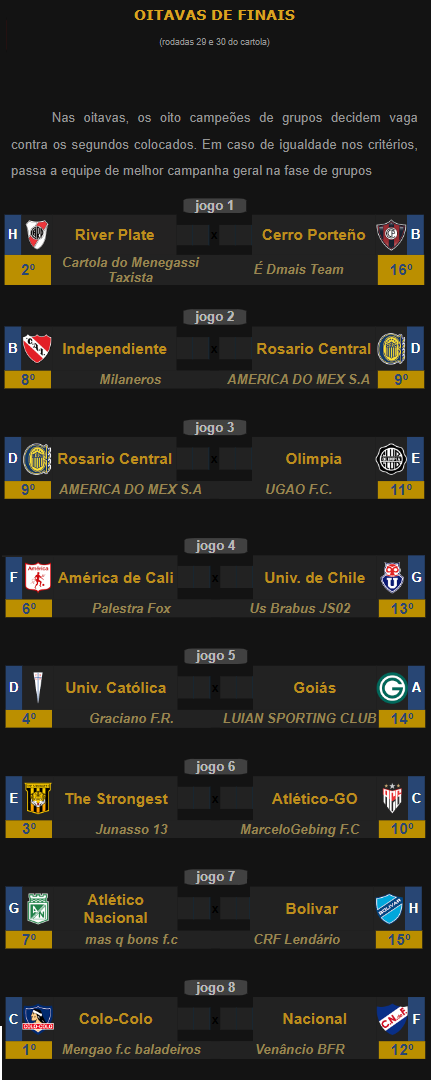
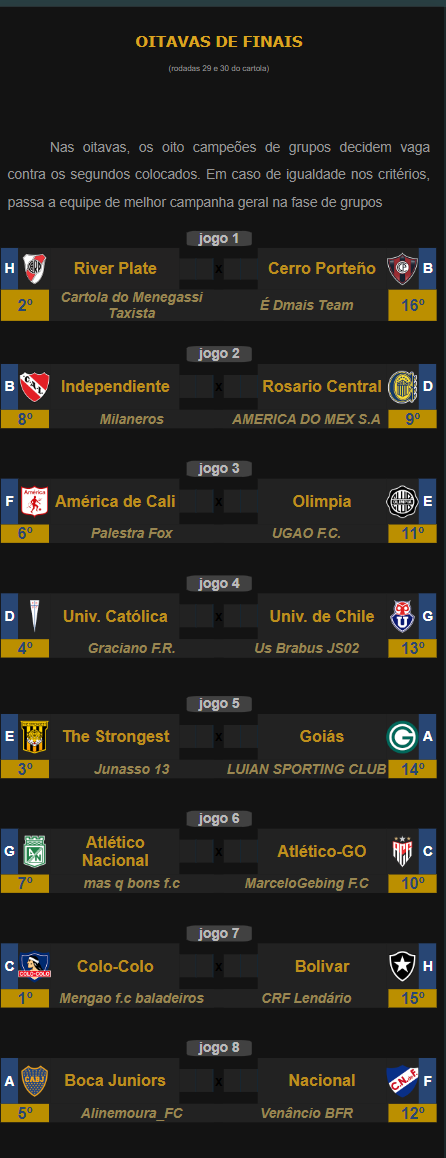
foi

diff --git a/js/libertadores.js b/js/libertadores.js
@@ -1683,12 +1683,12 @@ let MelhoresSegundos=[logorosariocentral,rosariocentral,'10','3','1','2','14','1
 
 document.getElementById("5fDivclub1").innerHTML="H";document.getElementById("5fLogoclub1").innerHTML=logoriverplate;document.getElementById("5fNomeclub1").innerHTML="River Plate";document.getElementById("5fgolj2club1").innerHTML="";document.getElementById("5fgolj1club1").innerHTML="";document.getElementById("5fNivelclub1").innerHTML="2º";document.getElementById("5fTecclub1").innerHTML=tec536.nome;document.getElementById("5fDivclub2").innerHTML="B";document.getElementById("5fLogoclub2").innerHTML=logocerroporteno;document.getElementById("5fNomeclub2").innerHTML="Cerro Porteño";document.getElementById("5fgolj1club2").innerHTML="";document.getElementById("5fgolj2club2").innerHTML="";document.getElementById("5fNivelclub2").innerHTML="16º";document.getElementById("5fTecclub2").innerHTML=tec464.nome;
 document.getElementById("5fDivclub3").innerHTML="B";document.getElementById("5fLogoclub3").innerHTML=logoindependiente;document.getElementById("5fNomeclub3").innerHTML="Independiente";document.getElementById("5fgolj2club3").innerHTML="";document.getElementById("5fgolj1club3").innerHTML="";document.getElementById("5fNivelclub3").innerHTML="8º";document.getElementById("5fTecclub3").innerHTML=tec481.nome;document.getElementById("5fDivclub4").innerHTML="D";document.getElementById("5fLogoclub4").innerHTML=logorosariocentral;document.getElementById("5fNomeclub4").innerHTML="Rosario Central";document.getElementById("5fgolj1club4").innerHTML="";document.getElementById("5fgolj2club4").innerHTML="";document.getElementById("5fNivelclub4").innerHTML="9º";document.getElementById("5fTecclub4").innerHTML=tec537.nome;
-document.getElementById("5fDivclub5").innerHTML="D";document.getElementById("5fLogoclub5").innerHTML=logorosariocentral;document.getElementById("5fNomeclub5").innerHTML="Rosario Central";document.getElementById("5fgolj2club5").innerHTML="";document.getElementById("5fgolj1club5").innerHTML="";document.getElementById("5fNivelclub5").innerHTML="9º";document.getElementById("5fTecclub5").innerHTML=tec537.nome;document.getElementById("5fDivclub6").innerHTML="E";document.getElementById("5fLogoclub6").innerHTML=logoolimpia;document.getElementById("5fNomeclub6").innerHTML="Olimpia";document.getElementById("5fgolj1club6").innerHTML="";document.getElementById("5fgolj2club6").innerHTML="";document.getElementById("5fNivelclub6").innerHTML="11º";document.getElementById("5fTecclub6").innerHTML=tec539.nome;
-document.getElementById("5fDivclub7").innerHTML="F";document.getElementById("5fLogoclub7").innerHTML=logoamericadecali;document.getElementById("5fNomeclub7").innerHTML="América de Cali";document.getElementById("5fgolj2club7").innerHTML="";document.getElementById("5fgolj1club7").innerHTML="";document.getElementById("5fNivelclub7").innerHTML="6º";document.getElementById("5fTecclub7").innerHTML=tec542.nome;document.getElementById("5fDivclub8").innerHTML="G";document.getElementById("5fLogoclub8").innerHTML=logounivdechile;document.getElementById("5fNomeclub8").innerHTML="Univ. de Chile";document.getElementById("5fgolj1club8").innerHTML="";document.getElementById("5fgolj2club8").innerHTML="";document.getElementById("5fNivelclub8").innerHTML="13º";document.getElementById("5fTecclub8").innerHTML=tec523.nome;
-document.getElementById("5fDivclub9").innerHTML="D";document.getElementById("5fLogoclub9").innerHTML=logounivcatolicachi;document.getElementById("5fNomeclub9").innerHTML="Univ. Católica";document.getElementById("5fgolj2club9").innerHTML="";document.getElementById("5fgolj1club9").innerHTML="";document.getElementById("5fNivelclub9").innerHTML="4º";document.getElementById("5fTecclub9").innerHTML=tec532.nome;document.getElementById("5fDivclub10").innerHTML="A";document.getElementById("5fLogoclub10").innerHTML=logogoias;document.getElementById("5fNomeclub10").innerHTML="Goiás";document.getElementById("5fgolj1club10").innerHTML="";document.getElementById("5fgolj2club10").innerHTML="";document.getElementById("5fNivelclub10").innerHTML="14º";document.getElementById("5fTecclub10").innerHTML=tec102.nome;
-document.getElementById("5fDivclub11").innerHTML="E";document.getElementById("5fLogoclub11").innerHTML=logothestrongest;document.getElementById("5fNomeclub11").innerHTML="The Strongest";document.getElementById("5fgolj2club11").innerHTML="";document.getElementById("5fgolj1club11").innerHTML="";document.getElementById("5fNivelclub11").innerHTML="3º";document.getElementById("5fTecclub11").innerHTML=tec479.nome;document.getElementById("5fDivclub12").innerHTML="C";document.getElementById("5fLogoclub12").innerHTML=logoatleticogo;document.getElementById("5fNomeclub12").innerHTML="Atlético-GO";document.getElementById("5fgolj1club12").innerHTML="";document.getElementById("5fgolj2club12").innerHTML="";document.getElementById("5fNivelclub12").innerHTML="10º";document.getElementById("5fTecclub12").innerHTML=tec106.nome;
-document.getElementById("5fDivclub13").innerHTML="G";document.getElementById("5fLogoclub13").innerHTML=logoatleticonacional;document.getElementById("5fNomeclub13").innerHTML="Atlético Nacional";document.getElementById("5fgolj2club13").innerHTML="";document.getElementById("5fgolj1club13").innerHTML="";document.getElementById("5fNivelclub13").innerHTML="7º";document.getElementById("5fTecclub13").innerHTML=tec541.nome;document.getElementById("5fDivclub14").innerHTML="H";document.getElementById("5fLogoclub14").innerHTML=logobolivar;document.getElementById("5fNomeclub14").innerHTML="Bolivar";document.getElementById("5fgolj1club14").innerHTML="";document.getElementById("5fgolj2club14").innerHTML="";document.getElementById("5fNivelclub14").innerHTML="15º";document.getElementById("5fTecclub14").innerHTML=tec457.nome;
-document.getElementById("5fDivclub15").innerHTML="C";document.getElementById("5fLogoclub15").innerHTML=logocolocolo;document.getElementById("5fNomeclub15").innerHTML="Colo-Colo";document.getElementById("5fgolj2club15").innerHTML="";document.getElementById("5fgolj1club15").innerHTML="";document.getElementById("5fNivelclub15").innerHTML="1º";document.getElementById("5fTecclub15").innerHTML=tec538.nome;document.getElementById("5fDivclub16").innerHTML="F";document.getElementById("5fLogoclub16").innerHTML=logonacionaluru;document.getElementById("5fNomeclub16").innerHTML="Nacional";document.getElementById("5fgolj1club16").innerHTML="";document.getElementById("5fgolj2club16").innerHTML="";document.getElementById("5fNivelclub16").innerHTML="12º";document.getElementById("5fTecclub16").innerHTML=tec540.nome;
+document.getElementById("5fDivclub5").innerHTML="F";document.getElementById("5fLogoclub5").innerHTML=logoamericadecali;document.getElementById("5fNomeclub5").innerHTML="América de Cali";document.getElementById("5fgolj2club5").innerHTML="";document.getElementById("5fgolj1club5").innerHTML="";document.getElementById("5fNivelclub5").innerHTML="6º";document.getElementById("5fTecclub5").innerHTML=tec542.nome;document.getElementById("5fDivclub6").innerHTML="E";document.getElementById("5fLogoclub6").innerHTML=logoolimpia;document.getElementById("5fNomeclub6").innerHTML="Olimpia";document.getElementById("5fgolj1club6").innerHTML="";document.getElementById("5fgolj2club6").innerHTML="";document.getElementById("5fNivelclub6").innerHTML="11º";document.getElementById("5fTecclub6").innerHTML=tec539.nome;
+document.getElementById("5fDivclub7").innerHTML="D";document.getElementById("5fLogoclub7").innerHTML=logounivcatolicachi;document.getElementById("5fNomeclub7").innerHTML="Univ. Católica";document.getElementById("5fgolj2club7").innerHTML="";document.getElementById("5fgolj1club7").innerHTML="";document.getElementById("5fNivelclub7").innerHTML="4º";document.getElementById("5fTecclub7").innerHTML=tec532.nome;document.getElementById("5fDivclub8").innerHTML="G";document.getElementById("5fLogoclub8").innerHTML=logounivdechile;document.getElementById("5fNomeclub8").innerHTML="Univ. de Chile";document.getElementById("5fgolj1club8").innerHTML="";document.getElementById("5fgolj2club8").innerHTML="";document.getElementById("5fNivelclub8").innerHTML="13º";document.getElementById("5fTecclub8").innerHTML=tec523.nome;
+document.getElementById("5fDivclub9").innerHTML="E";document.getElementById("5fLogoclub9").innerHTML=logothestrongest;document.getElementById("5fNomeclub9").innerHTML="The Strongest";document.getElementById("5fgolj2club9").innerHTML="";document.getElementById("5fgolj1club9").innerHTML="";document.getElementById("5fNivelclub9").innerHTML="3º";document.getElementById("5fTecclub9").innerHTML=tec479.nome;document.getElementById("5fDivclub10").innerHTML="A";document.getElementById("5fLogoclub10").innerHTML=logogoias;document.getElementById("5fNomeclub10").innerHTML="Goiás";document.getElementById("5fgolj1club10").innerHTML="";document.getElementById("5fgolj2club10").innerHTML="";document.getElementById("5fNivelclub10").innerHTML="14º";document.getElementById("5fTecclub10").innerHTML=tec102.nome;
+document.getElementById("5fDivclub11").innerHTML="G";document.getElementById("5fLogoclub11").innerHTML=logoatleticonacional;document.getElementById("5fNomeclub11").innerHTML="Atlético Nacional";document.getElementById("5fgolj2club11").innerHTML="";document.getElementById("5fgolj1club11").innerHTML="";document.getElementById("5fNivelclub11").innerHTML="7º";document.getElementById("5fTecclub11").innerHTML=tec541.nome;document.getElementById("5fDivclub12").innerHTML="C";document.getElementById("5fLogoclub12").innerHTML=logoatleticogo;document.getElementById("5fNomeclub12").innerHTML="Atlético-GO";document.getElementById("5fgolj1club12").innerHTML="";document.getElementById("5fgolj2club12").innerHTML="";document.getElementById("5fNivelclub12").innerHTML="10º";document.getElementById("5fTecclub12").innerHTML=tec106.nome;
+document.getElementById("5fDivclub13").innerHTML="C";document.getElementById("5fLogoclub13").innerHTML=logocolocolo;document.getElementById("5fNomeclub13").innerHTML="Colo-Colo";document.getElementById("5fgolj2club13").innerHTML="";document.getElementById("5fgolj1club13").innerHTML="";document.getElementById("5fNivelclub13").innerHTML="1º";document.getElementById("5fTecclub13").innerHTML=tec538.nome;document.getElementById("5fDivclub14").innerHTML="H";document.getElementById("5fLogoclub14").innerHTML=logobotafogo;document.getElementById("5fNomeclub14").innerHTML="Bolivar";document.getElementById("5fgolj1club14").innerHTML="";document.getElementById("5fgolj2club14").innerHTML="";document.getElementById("5fNivelclub14").innerHTML="15º";document.getElementById("5fTecclub14").innerHTML=tec457.nome;
+document.getElementById("5fDivclub15").innerHTML="A";document.getElementById("5fLogoclub15").innerHTML=logobocajuniors;document.getElementById("5fNomeclub15").innerHTML="Boca Juniors";document.getElementById("5fgolj2club15").innerHTML="";document.getElementById("5fgolj1club15").innerHTML="";document.getElementById("5fNivelclub15").innerHTML="5º";document.getElementById("5fTecclub15").innerHTML=tec529.nome;document.getElementById("5fDivclub16").innerHTML="F";document.getElementById("5fLogoclub16").innerHTML=logonacionaluru;document.getElementById("5fNomeclub16").innerHTML="Nacional";document.getElementById("5fgolj1club16").innerHTML="";document.getElementById("5fgolj2club16").innerHTML="";document.getElementById("5fNivelclub16").innerHTML="12º";document.getElementById("5fTecclub16").innerHTML=tec540.nome;
 
 
 
